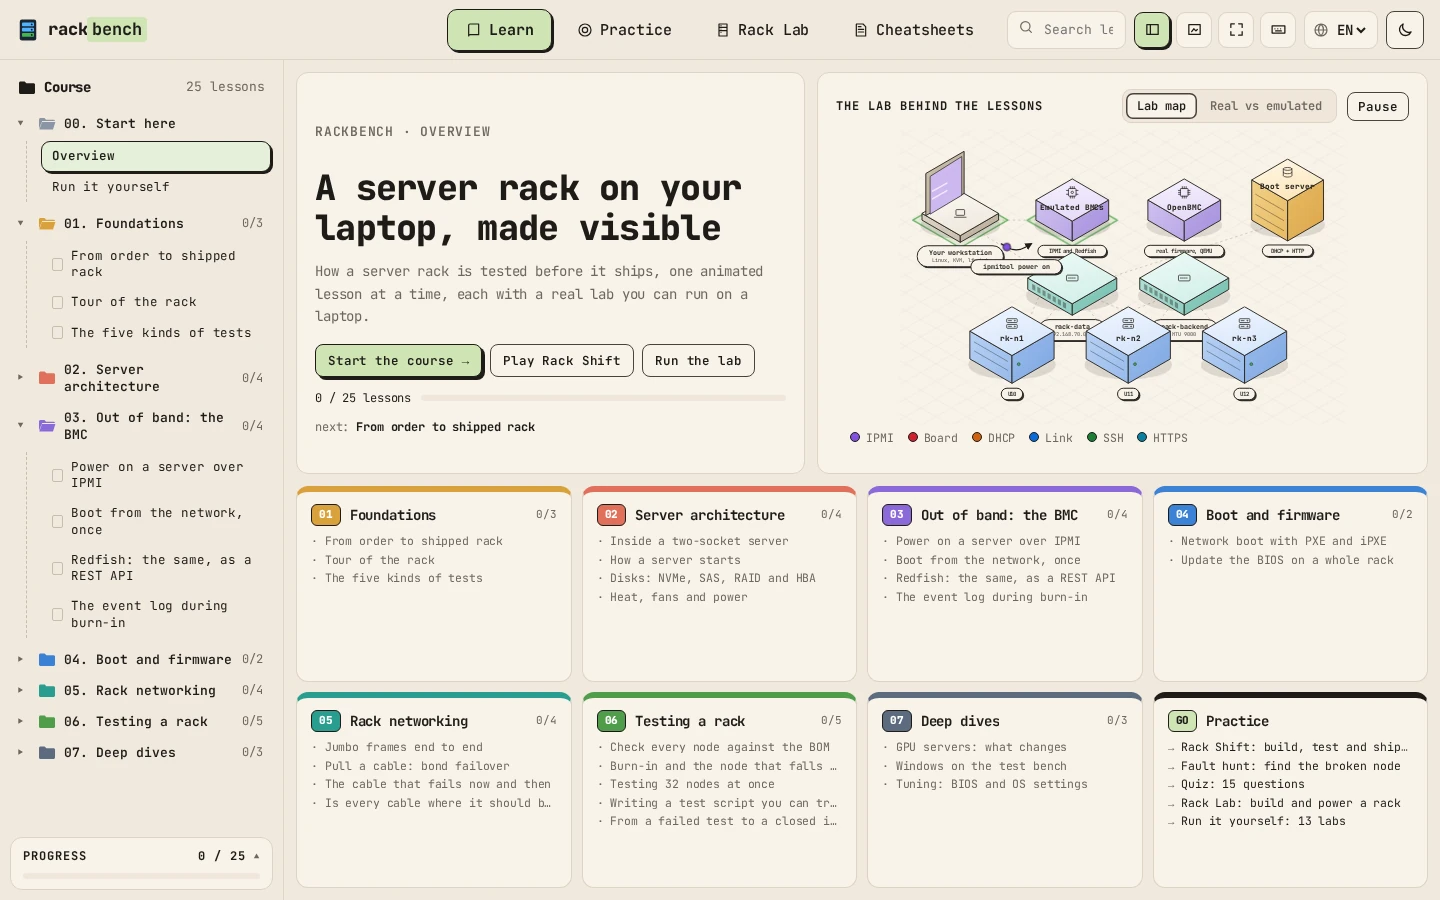
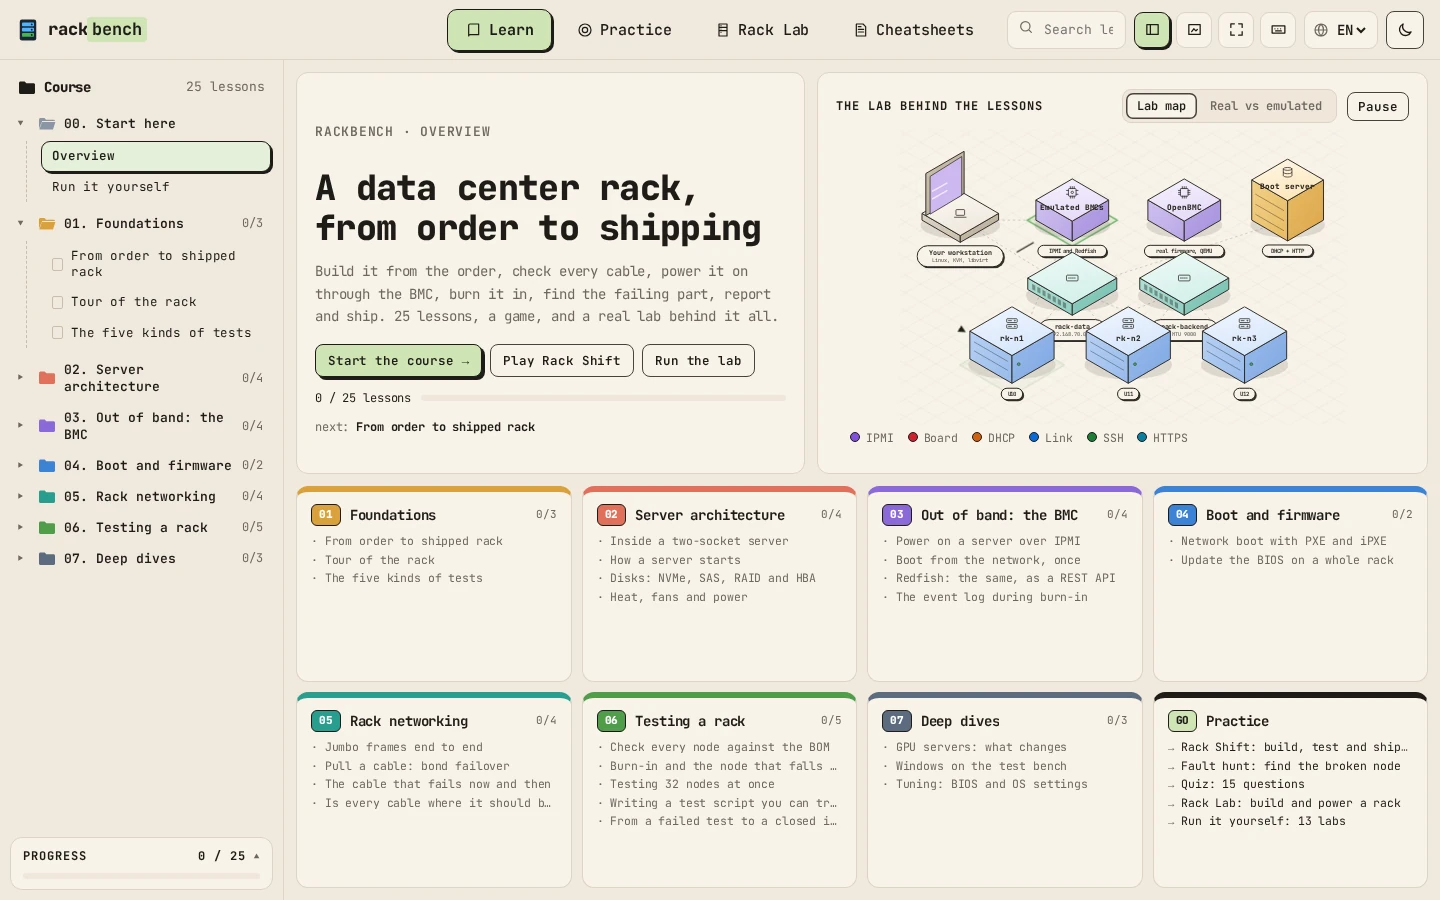
feat: Rackbench, a data center rack from order to shipping; open on the overview

diff --git a/api/ask.ts b/api/ask.ts
@@ -1,4 +1,4 @@
-// POST /api/ask: the "Ask the rack" assistant of Rackbench Explorer.
+// POST /api/ask: the "Ask the rack" assistant of Rackbench.
 // Runs as a Vercel Function. It calls a model through the Vercel AI Gateway (OpenAI-compatible API).
 //
 // Environment (set in the Vercel project settings, or in site/.env.local for `npm run dev`; never in git):
@@ -17,7 +17,7 @@ const GATEWAY = 'https://ai-gateway.vercel.sh/v1/chat/completions'
 const PER_MINUTE = 6
 const PER_DAY = 40
 
-const SYSTEM = `You are the tutor of Rackbench Explorer, an interactive site that teaches how server racks are tested before they ship: BMCs, IPMI and Redfish, PXE and iPXE network boot, BIOS and BMC firmware updates, BOM checks, burn-in with stress-ng, fio and iperf3, bonds, VLANs and jumbo frames, the system event log, and fault isolation. The site's lab ("rackbench") is three Ubuntu VMs on KVM (rk-n1..rk-n3) with virtualbmc and sushy-tools as BMCs, OpenBMC in QEMU, an iPXE boot server and a fault injector (lab/faults.sh).
+const SYSTEM = `You are the tutor of Rackbench, an interactive site that teaches how server racks are tested before they ship: BMCs, IPMI and Redfish, PXE and iPXE network boot, BIOS and BMC firmware updates, BOM checks, burn-in with stress-ng, fio and iperf3, bonds, VLANs and jumbo frames, the system event log, and fault isolation. The site's lab ("rackbench") is three Ubuntu VMs on KVM (rk-n1..rk-n3) with virtualbmc and sushy-tools as BMCs, OpenBMC in QEMU, an iPXE boot server and a fault injector (lab/faults.sh).
 
 Answer the question in plain English, briefly (at most about 180 words), concretely, with the exact command or field name when it helps. Use plain text, no Markdown headings. If the question is outside servers, networking, Linux or testing, say that you only help with this site's topics. If you are not sure, say so rather than guessing. Never invent vendor-specific commands or options; say "check the vendor's guide" instead.`
 

diff --git a/src/pages/Labs.tsx b/src/pages/Labs.tsx
@@ -14,7 +14,7 @@ interface Lab {
 
 const SETUP = `# Fedora (or any Linux with KVM and libvirt); you need about 7.5 GB of free memory
 sudo dnf install virt-install qemu-img xorriso jq ipmitool lshw qemu-system-arm
-git clone ${SITE.labRepo}.git && cd rackbench/lab
+git clone ${SITE.labRepo}.git && cd rackbench-lab/lab
 ./provision-rack.sh            # three Ubuntu nodes, two networks; asks sudo for the disk images
 ./snapshot-rack.sh save clean  # undo anything later with: ./snapshot-rack.sh revert clean
 ./bmc.sh setup && ./bmc.sh start   # emulated BMCs: IPMI on 127.0.0.1:6231-6233, Redfish on :8000
@@ -193,7 +193,7 @@ export function Labs({ go }: { go: (hash: string) => void }) {
         {!lab ? (
           <>
             <h2>Set up the rack</h2>
-            <p>Fedora or any Linux with KVM and libvirt, about 7.5 GB of free memory, Node.js only for this site. The scripts live in the rackbench repository.</p>
+            <p>Fedora or any Linux with KVM and libvirt and about 7.5 GB of free memory. The scripts live in the <a href={SITE.labRepo} target="_blank" rel="noreferrer">rackbench-lab</a> repository.</p>
             <CodeBlock code={SETUP} label="Set up" />
             <h3 className="panel-sub">Scripts</h3>
             <div className="lab-scripts">

diff --git a/index.html b/index.html
@@ -3,8 +3,8 @@
   <head>
     <meta charset="UTF-8" />
     <meta name="viewport" content="width=device-width, initial-scale=1.0" />
-    <title>Rackbench Explorer</title>
-    <meta name="description" content="An interactive guide to server racks: BMCs, IPMI and Redfish, network boot, burn-in, network tests and fault finding, built on a three-node rack that runs on a laptop." />
+    <title>Rackbench</title>
+    <meta name="description" content="Learn how a data center rack is built, tested and shipped: 25 animated lessons on servers, BMCs, IPMI and Redfish, network boot, firmware, burn-in and fault finding, a rack-building game, and a real lab behind every lesson." />
     <link rel="icon" href="./favicon.svg" type="image/svg+xml" />
     <script>
       try { var t = localStorage.getItem('rackbench:theme'); if (t) document.documentElement.dataset.theme = t } catch (e) {}
@@ -12,7 +12,7 @@
   </head>
   <body>
     <div id="root"></div>
-    <noscript>Rackbench Explorer needs JavaScript: every lesson is an animated diagram you step through.</noscript>
+    <noscript>Rackbench needs JavaScript: every lesson is an animated diagram you step through.</noscript>
     <script type="module" src="/src/main.tsx"></script>
   </body>
 </html>

diff --git a/src/site.ts b/src/site.ts
@@ -1,14 +1,14 @@
 export const SITE = {
   name: 'rackbench',
-  title: 'Rackbench Explorer',
-  tagline: 'A server rack on your laptop, made visible',
+  title: 'Rackbench',
+  tagline: 'A data center rack, from order to shipping',
   /** This site's source. */
-  repo: 'https://github.com/adam-bouafia/rackbench-explorer',
+  repo: 'https://github.com/adam-bouafia/rackbench',
   /** The lab scripts the lessons are built on. */
-  labRepo: 'https://github.com/adam-bouafia/rackbench',
+  labRepo: 'https://github.com/adam-bouafia/rackbench-lab',
   author: 'Adam Bouafia',
   authorUrl: 'https://adam-bouafia.github.io',
 }
 
-/** Link to a file of the lab scripts in the rackbench repository. */
+/** Link to a file of the lab scripts in the rackbench-lab repository. */
 export const labFile = (file: string) => `${SITE.labRepo}/blob/main/lab/${file}`

diff --git a/src/styles.css b/src/styles.css
@@ -1,4 +1,4 @@
-/* Rackbench Explorer. Colours are tokens on :root, redefined for dark mode. */
+/* Rackbench. Colours are tokens on :root, redefined for dark mode. */
 :root {
   --bg: #f5f7fa;
   --panel: #ffffff;
@@ -2814,3 +2814,10 @@ button.chip-lab.is-on { background: var(--green); color: var(--ink); }
 @media (max-width: 1440px) { .rs-body { grid-template-columns: 190px minmax(0, 1fr) 270px; } }
 @media (max-width: 1300px) { .rs-grid { font-size: 11px; } .rs-grid th, .rs-grid td { padding: 4px 4px; } }
 @media (max-width: 1080px) { .rs-main { order: -1; } }
+@media (max-height: 820px) and (min-width: 1081px) {
+  .ov-hero { gap: 9px; }
+  .ov-hero .lead { font-size: 13px; line-height: 1.5; }
+}
+@media (max-height: 790px) and (min-width: 1081px) {
+  .ov-hero .eyebrow { display: none; }
+}

diff --git a/src/pages/Home.tsx b/src/pages/Home.tsx
@@ -71,7 +71,7 @@ export function Home({ go }: { go: (hash: string) => void }) {
       <section className="panel ov-hero">
         <p className="eyebrow">{SITE.name} · overview</p>
         <h1>{SITE.tagline}</h1>
-        <p className="lead">How a server rack is tested before it ships, one animated lesson at a time, each with a real lab you can run on a laptop.</p>
+        <p className="lead">Build it from the order, check every cable, power it on through the BMC, burn it in, find the failing part, report and ship. 25 lessons, a game, and a real lab behind it all.</p>
         <div className="hero-actions">
           <a className="btn btn-primary" href={`#/lesson/${next.id}`} onClick={link(`#/lesson/${next.id}`)}>
             {count ? 'Continue the course' : 'Start the course'} →

diff --git a/src/App.tsx b/src/App.tsx
@@ -41,8 +41,7 @@ type Route =
 
 function parse(hash: string): Route {
   const h = hash.replace(/^#/, '') || '/'
-  if (h === '/' || h === '') return { page: 'lesson', id: LESSONS[0].id }
-  if (h === '/overview') return { page: 'home' }
+  if (h === '/' || h === '' || h === '/overview') return { page: 'home' }
   if (h === '/practice' || h === '/practice/shift' || h === '/shift') return { page: 'practice', tab: 'shift' }
   if (h === '/practice/hunt' || h === '/hunt') return { page: 'practice', tab: 'hunt' }
   if (h === '/practice/quiz') return { page: 'practice', tab: 'quiz' }

diff --git a/README.md b/README.md
@@ -1,36 +1,42 @@
-# Rackbench Explorer
+# Rackbench
 
-An interactive site about how server racks are tested before they ship: BMCs, IPMI and Redfish, network boot, firmware updates, burn-in, network tests and fault finding. Live at https://rackbench.vercel.app
+**A data center rack, from order to shipping.**
 
-![A lesson: powering on a server over IPMI, step by step](docs/screenshots/lesson.webp)
+Walk through the life of a data center rack: build it from the order, check every cable, power it on through the BMC, burn it in, find the failing part, write the report and ship it. You learn it in the browser with 25 animated lessons and a game, then do it for real on a three-node rack you run yourself.
 
-One screen, four sections:
+**Live: https://rackbench.vercel.app**
 
-- Learn: a course of 25 lessons in seven coloured chapters (Foundations, Server architecture, the BMC, Boot and firmware, Rack networking, Testing a rack, Deep dives), with progress kept in the browser. Step-through lessons show devices as isometric blocks that appear when they join the story, the current message as an arrow with a travelling packet, metrics that update per step, a stepper, and a side panel with the explanation, a key idea, what changed, the decoded fields and "You'll learn". New in the deep dives: disks and RAID, heat and power, LLDP cabling checks, writing a test script, Windows and PowerShell on the test bench, BIOS and OS tuning. Interactive lessons: the five kinds of tests, a rack tour with the cabling table, DIMM population and NUMA, PCIe link width, a BOM check, the burn-in outlier rule, jumbo frames, bond failover.
-- Practice: Rack Shift, a game of one shift on a rack integration floor: three orders (edge, storage, GPU), and for each rack you build it by the placement rules, check every cable against the plan with LLDP, power it on and check each server against the order, burn it in and read the results against the test plan, fix and retest, then write the report with evidence and root cause and ship it. Faults are random per shift (`src/game/shift.ts`). Also a fault-hunt game (a simulated rack with one hidden fault and a terminal) and a 15-question quiz.
-- Rack Lab: build a 24U rack and check it against integration rules: redundant feeds, the 80% power rule, switches on top, heavy servers low, blanking panels.
-- Cheatsheets: ipmitool, Redfish, inventory, burn-in, network, boot, drives and power, Windows and PowerShell, cabling, and the rackbench lab commands, filterable, one click to copy.
-- Overview: an animated map of the lab, the chapters with progress, and a table of what is real and what is emulated.
-- Run it yourself: the setup and the 13 labs of the rackbench repository, one at a time.
+![Rackbench: the lab map, the seven chapters and the way in](docs/screenshots/overview.webp)
 
-Each step-through lesson has three views: the isometric diagram (the route draws itself, then a packet loops along it; Replay restarts the step, Pause freezes it), a sequence diagram, and a packet list in the style of a capture tool. The site opens straight into the first lesson, and every page fits the screen without scrolling (panels scroll inside); next to the search are buttons to hide the course, show the diagram only, go full screen and list the keyboard shortcuts. Search (Ctrl K) covers lessons and commands; the interface switches between English, French and Dutch (lesson texts are English); light and dark themes; JetBrains Mono throughout (SIL Open Font License, `public/fonts/OFL.txt`).
+## What you can do
 
-Every lesson has a hands-on counterpart in the lab: https://github.com/adam-bouafia/rackbench, a three-node rack on KVM with emulated BMCs, OpenBMC in QEMU, network boot and a fault injector.
+- **Learn.** 25 lessons in seven chapters, from what is inside a two-socket server to GPU racks: Foundations, Server architecture, Out of band (the BMC), Boot and firmware, Rack networking, Testing a rack, Deep dives. A step-through lesson draws the devices as isometric blocks, sends each message along its route with a travelling packet, updates live metrics and explains every step with the decoded fields and the raw output. Each one has a Diagram, a Sequence and a Packets view, with Replay and Pause.
+- **Play Rack Shift.** One shift on a rack integration floor, three orders: an edge rack, a storage rack and a GPU rack. For each one you build the rack by the placement rules, check every cable against the plan with LLDP, power it on and check every server against the order and the firmware baseline, burn it in and read the results against the test plan, fix and retest, then write the report with evidence and root cause and ship it. The faults change every shift, and QA shows you what you missed.
+- **Practice.** A fault hunt (one hidden fault in a simulated rack, a terminal, the clock) and a 15-question quiz.
+- **Rack Lab.** Build a 24U rack freely and check it against the integration rules: redundant feeds, the 80% power rule, switches on top, heavy servers low, blanking panels.
+- **Cheatsheets.** ipmitool, Redfish, inventory, burn-in, network, boot, drives and power, Windows and PowerShell, cabling: filterable, one click to copy.
+- **Run it yourself.** 13 hands-on labs, step by step, on the real three-node rack of [rackbench-lab](https://github.com/adam-bouafia/rackbench-lab).
 
-The traces are illustrative and the numbers simulated. Not affiliated with any hardware vendor.
+Every page fits one screen. Next to the search are buttons to hide the course, show the diagram only, go full screen and list the keyboard shortcuts. Search (Ctrl K) covers lessons and commands; the interface switches between English, French and Dutch (the lessons are in English); light and dark themes.
 
 ## Screenshots
 
 | | |
 |---|---|
-| ![Overview: the lab map and the seven chapters](docs/screenshots/overview.webp) | ![Packets view of the network boot lesson](docs/screenshots/packets.webp) |
-| Overview: the animated lab map and the chapters | Packets view: network boot as a capture tool shows it |
+| ![A lesson: powering on a server over IPMI, step by step](docs/screenshots/lesson.webp) | ![Packets view of the network boot lesson](docs/screenshots/packets.webp) |
+| A lesson: IPMI power-on, packet by packet | Packets view: network boot as a capture tool shows it |
 | ![Rack Shift: building the rack, two rules not met](docs/screenshots/rackshift-build.webp) | ![Rack Shift: a slow drive found in the burn-in results](docs/screenshots/rackshift-burnin.webp) |
 | Rack Shift, Build: the placement rules say what is wrong | Rack Shift, Burn-in: one drive 31% under the median |
 | ![Dark theme: the GPU server lesson](docs/screenshots/dark.webp) | ![Rack Lab: a 24U rack checked against the integration rules](docs/screenshots/racklab.webp) |
 | Dark theme: GPU servers, what changes | Rack Lab: free rack building with power checks |
 
-## Run it
+## The lab behind it
+
+Every lesson has a counterpart in [rackbench-lab](https://github.com/adam-bouafia/rackbench-lab): three Ubuntu nodes on KVM that report like two-socket servers, emulated BMCs that answer IPMI and Redfish, OpenBMC firmware in QEMU, iPXE network boot, a rack-wide BIOS update drill and a fault injector with 11 faults. Rackbench shows how it works; the lab is where you do it.
+
+The traces are illustrative and the numbers simulated. Not affiliated with any hardware vendor.
+
+## Run it locally
 
 Node.js 24.
 
@@ -54,7 +60,7 @@ Their keys live in `.env.local` or in the Vercel project settings, never in git 
 
 ## Keeping it in step with the lab
 
-The fault-hunt simulator (`src/hunt/sim.ts`) mirrors the faults of `lab/faults.sh` in the rackbench repository, and the lessons quote its commands and file names. When a fault or a script changes there, update the simulator and the lessons here.
+The fault-hunt simulator (`src/hunt/sim.ts`) and the faults of Rack Shift (`src/game/shift.ts`) mirror `lab/faults.sh` in [rackbench-lab](https://github.com/adam-bouafia/rackbench-lab), and the lessons quote its commands and file names. When a fault or a script changes there, update the simulator and the lessons here.
 
 ## Layout
 
@@ -72,4 +78,4 @@ scripts/        the narration script
 
 ## License
 
-MIT, see `LICENSE`.
+MIT, see `LICENSE`. Font: JetBrains Mono (SIL Open Font License, `public/fonts/OFL.txt`).
